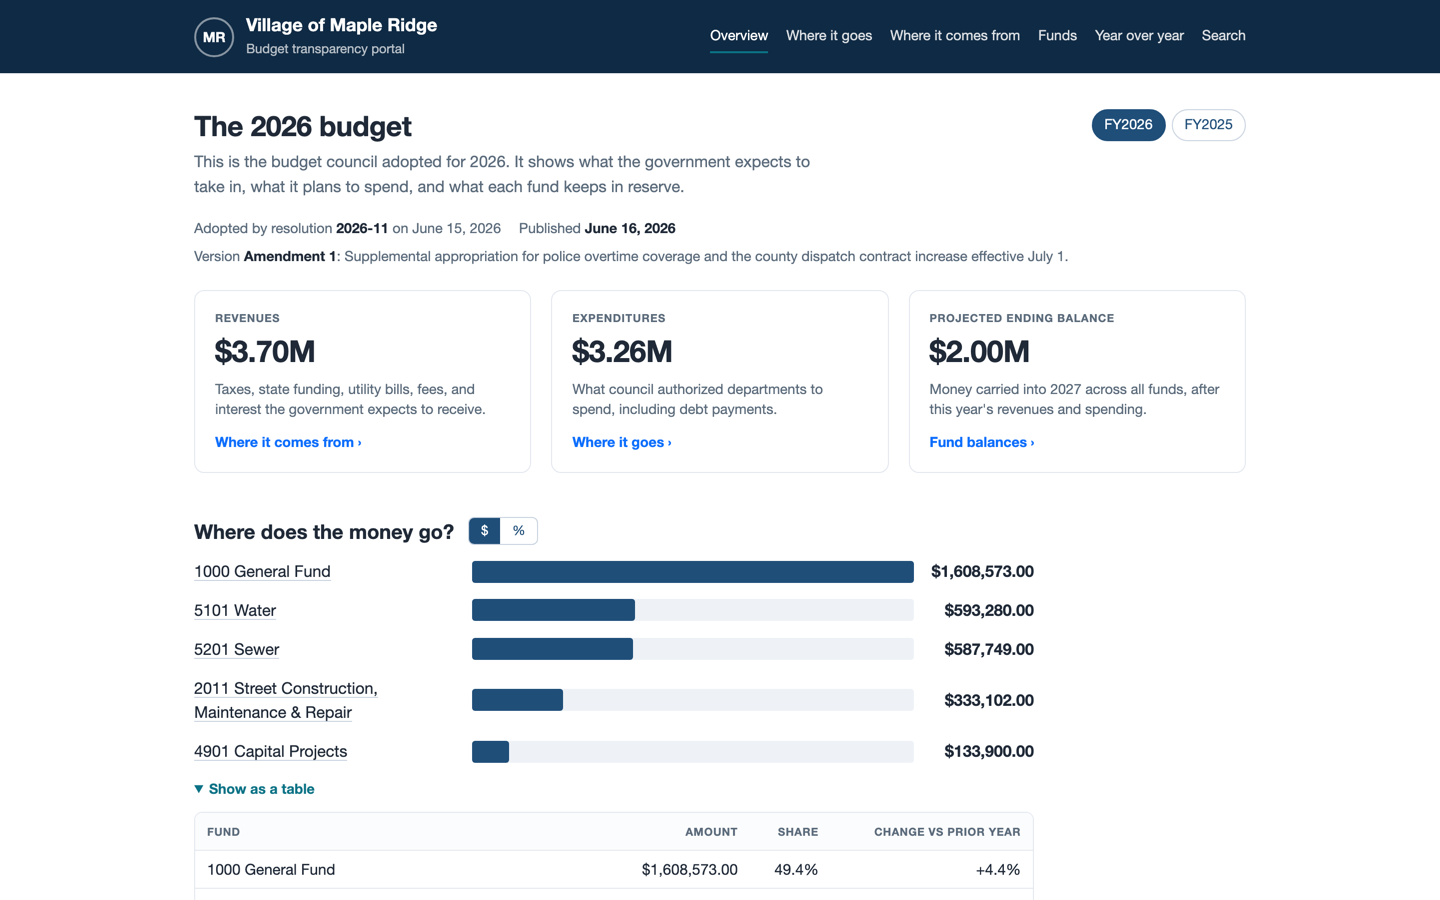
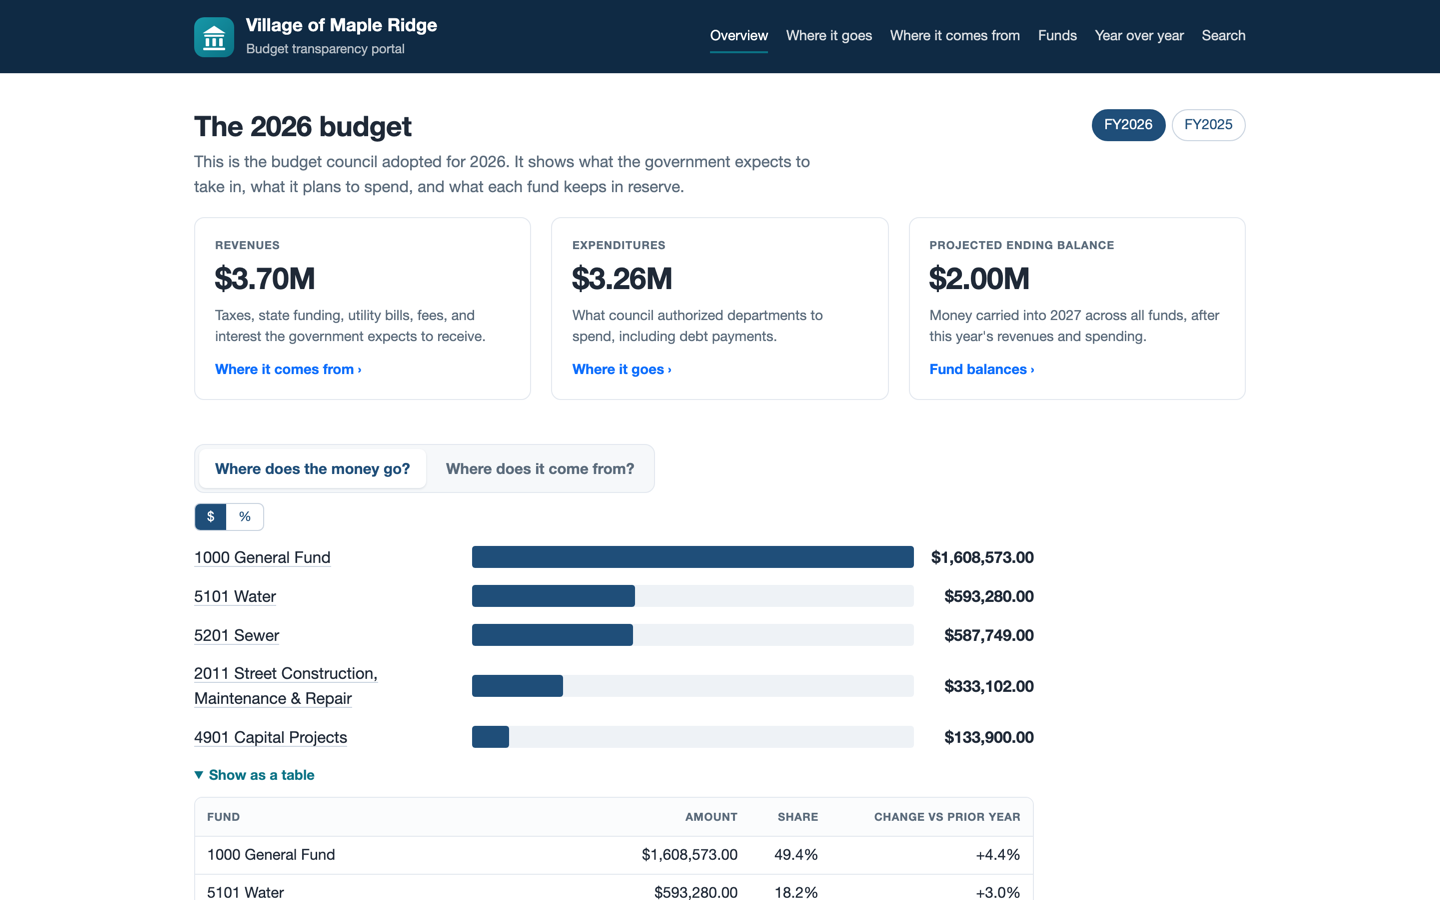
docs: ADR-0029, walkthrough 15, roadmap phase 12, changelog, interview prep, conventions; portal screenshots

diff --git a/docs/DECISIONS.md b/docs/DECISIONS.md
@@ -313,6 +313,42 @@ The same phase adds `[NotAudited]` for properties whose change is already a name
 because the department round (ADR-0027) had started writing ids and timestamps into the
 activity feed.
 
+## ADR-0029 — The portal's read-only context also maps the government logo; the overview's panels slide with CSS alone
+**Date:** 2026-09-20 · **Status:** Accepted
+
+**Context.** The portal header showed the government's initials in a circle. Spencer wants the
+CivicBudget mark by default and a logo the government's administrator uploads. ADR-0006 says
+the portal context maps only snapshot tables so nothing live can leak; a logo is live data.
+Separately, the overview's two breakdowns should be one sliding section, and the portal has no
+JavaScript (ADR-0021's cacheability and the accessibility statement both depend on that).
+
+**Decision.**
+- **`GovernmentLogos` is the one non-snapshot table the portal context maps.** It holds a
+  government id, a content type, bytes, and a timestamp: a public image and nothing else, so
+  mapping it read-only cannot expose a draft, a user, or a setting. The portal looks it up
+  through an active snapshot's `GovernmentId`, so a government with nothing published has no
+  public face, and a renamed slug cannot orphan it. Uploads go through
+  `IGovernmentLogoService` (Administrator only, browser-resized to 512 px, type and size
+  checked) and evict the government's portal pages, whose header carries the logo.
+- **The header falls back to the mark**, not to initials: a product default that looks
+  designed, and no more guessing which words of "Village of Maple Ridge" to abbreviate.
+- **Panels slide with `:checked`.** `PortalPanels` renders two radio inputs styled as tabs and a
+  track two panels wide; the checked radio moves the track and hides the other panel
+  (`visibility`, so its links leave the tab order; `max-height: 0` after the slide, so the page
+  is only as tall as the panel on screen). Both panels are in the HTML, so search, reader mode,
+  and screen readers see everything, and the $/% toggle, which reloads the page, keeps the panel
+  through `?view=revenue`.
+
+**Alternatives.** Copying the logo into each snapshot (a logo change would need a republish);
+serving it through the admin context (breaks the one-door rule for no gain); a JavaScript
+carousel (the portal's no-script promise); `<details>` or `:target` for the tabs (no slide, and
+`:target` scrolls the page).
+
+**Consequences.** One table, one migration, one line in the portal-context test. The trust
+line (resolution, published, version) closes the overview instead of opening it; the glossary
+and accessibility statement are a page (`/transparency/{slug}/{year}/glossary`) instead of a
+footer under every page.
+
 ## Packages
 
 Every NuGet package and why. Add a row when adding a package.

diff --git a/CLAUDE.md b/CLAUDE.md
@@ -69,7 +69,7 @@ Actions · AWS CDK (C#) deploy-ready (no account — see ADR-0008).
 - Department round (9d): `DepartmentRequest` is a child of `BudgetVersion` (`SetDepartmentNarrative`, `SubmitDepartment`, `ReturnDepartment`); never new one up elsewhere. "May they edit" always passes the submitted flag (`BudgetLinePermissions.CanEdit(..., departmentSubmitted)`); pages read `BudgetWorkspaceDto.DepartmentRequests` and its `CanSubmit`/`CanReturn`/`CanEditNarrative` rather than checking roles. A dialog's `OnConfirm` is a `Func`, so call `StateHasChanged()` after reloading inside it.
 - ERP chart: `ErpChart` is the contract, `ChartDiff` is pure, `ChartSyncService` applies through entities. Setup services must call `ChartOwnership.RefuseIfErpManagedAsync` before writing. Add an ERP adapter by implementing `IErpChartSource`, never by touching the sync service.
 - Import/reports: `ImportAnalyzer` and `ReportBuilder` are pure; keep rules there and tests in Application.Tests. Exports go through `ExportTable` + `ISpreadsheetExporter`; add endpoints to `AdminExportEndpoints` behind a policy.
-- Portal pages call `ISnapshotQueryService` only; shared pieces live in `Components/Portal/Common` (`Breakdown`, `PortalKpi`, `PortalCrumbs`, `PortalNotFound`, `MoneyShort`). Styles are the `.pt-*` section of `app.css`.
+- Portal pages call `ISnapshotQueryService` only; shared pieces live in `Components/Portal/Common` (`Breakdown`, `PortalPanels`, `PortalKpi`, `PortalCrumbs`, `PortalNotFound`, `MoneyShort`). Styles are the `.pt-*` section of `app.css`. The portal has no JavaScript: toggles are links or `:checked` CSS. The portal context maps the snapshot tables plus `GovernmentLogos` (a public image) and nothing else.
 - UI: use `PageHeader` (sets breadcrumbs), `StatusPill`, `KpiCard`, `ConfirmDialog`, `RowMenu`, `EmptyState`, `SkeletonRows`, `ToastService`; grids use `table.cb-grid` inside `.cb-grid-wrap` (QuickGrid with `Theme="bootstrap"`). Tokens live in `wwwroot/app.css`; see `docs/design/DESIGN-BRIEF.md`. Never `window.confirm`.
 - Mark financial entities `[Audited]`; the interceptor does the rest. Use `AuditEntry.Event(...)` for named actions, and `[NotAudited]` on a property whose change that event already describes.
 - People and brand: render a person with `<Avatar UserId Name [Version] [Size]>` (never hand-rolled initials; `Display.Initials` is the one helper) and the mark with `<Logo Size>`; the sidebar brand is the government's name, not the product's.

diff --git a/docs/walkthroughs/15-portal-polish.md b/docs/walkthroughs/15-portal-polish.md
@@ -1,0 +1,48 @@
+# Walkthrough 15 — Portal polish
+
+Phase 12. Spencer's review of the transparency portal: a logo instead of
+initials (the government's own if it uploads one), less text at the top of
+the overview, the two breakdowns as one sliding section, and the glossary
+on its own page.
+
+## 1. The brand
+
+`PortalLayout` shows the CivicBudget mark (`<Logo>`) by default. When the
+government's administrator uploads a logo under **Government settings**,
+the header shows that instead: `PortalBudgetDto.LogoVersion` carries the
+upload time and the `<img>` points at `/transparency/{slug}/logo?v=ticks`.
+
+The upload follows the profile-picture pattern (walkthrough 14): the
+browser resizes to 512 px, `IGovernmentLogoService` checks type and size,
+the bytes go to `GovernmentLogos`, and the government's portal pages are
+evicted from the output cache because the header changed. The portal reads
+the table through `PublicPortalDbContext`, the one non-snapshot table it
+maps, by joining through an active snapshot's government id (ADR-0029).
+
+## 2. The overview
+
+- The resolution, published date, and version line moved from under the
+  headline to the foot of the page, above the footer, as a citation.
+- "Where does the money go?" and "Where does it come from?" are one section:
+  `PortalPanels` puts both `Breakdown`s on a track two panels wide, with two
+  radio inputs styled as tabs. `:checked` slides the track, hides the other
+  panel (`visibility`, then `max-height: 0`), and highlights the tab. No
+  script; reduced motion turns the slide off. The `$ | %` toggle reloads the
+  page, so the revenue panel's toggle links carry `?view=revenue`.
+- The "every line of the adopted budget" tail is gone.
+
+## 3. The glossary
+
+`/transparency/{slug}/{year}/glossary` (`PortalGlossary.razor`) explains the
+words the portal uses, a few more than before (beginning balance, transfer,
+account number, resolution), and carries the accessibility statement under
+`#accessibility`. The footer is one line: which budget, downloads, Glossary,
+Accessibility.
+
+## 4. Things to read
+
+1. `Components/Layout/PortalLayout.razor` and `Components/Portal/PortalOverview.razor`
+2. `Components/Portal/Common/PortalPanels.razor` and the `.pt-panels` CSS
+3. `Infrastructure/Portal/GovernmentLogoService.cs`, `SnapshotQueryService.GetLogoAsync`
+4. `tests/CivicBudget.IntegrationTests/GovernmentLogoTests.cs`, `PortalPanelsTests.cs`
+5. ADR-0029

diff --git a/docs/INTERVIEW-PREP.md b/docs/INTERVIEW-PREP.md
@@ -966,3 +966,24 @@ twice, one of them unreadable. The attribute opts a property out when a
 named event already records the change; Status, Narrative, and the return
 note are still audited field by field.
 **Look at:** `Domain/Common/AuditedAttribute.cs`, `AuditInterceptor.IsOptedOut`.
+
+## Phase 12 — Portal polish
+
+### Q: The portal context was "snapshot tables only". Why does it map the logo table now, and is that a hole?
+**A:** A government's logo is live data the portal has to show, and copying it into every
+snapshot would mean republishing a budget to change a logo. So I made one deliberate exception
+and wrote it down: `GovernmentLogos` holds a government id, a content type, bytes, and a
+timestamp, nothing else. Mapping it read-only cannot expose a draft line, a user, or a setting.
+The lookup goes through an active snapshot's government id, so a government with nothing
+published has no public face. The integration test that lists the portal context's tables pins
+it to exactly five.
+**Look at:** `PublicPortalDbContext`, `GovernmentLogoService`, `SnapshotQueryService.GetLogoAsync`, ADR-0029.
+
+### Q: How do the sliding panels work without JavaScript?
+**A:** Two radio inputs styled as tabs and a track two panels wide. `:checked` on the second
+radio translates the track by one panel and hides the other with `visibility` (so its links
+leave the tab order) and `max-height: 0` after the slide (so the page is only as tall as the
+panel on screen). Both panels are in the HTML, so find-in-page, reader mode, and screen
+readers see everything. The $/% toggle reloads the page, so it carries `?view=revenue` to land
+on the same panel. Reduced motion turns the slide off.
+**Look at:** `Components/Portal/Common/PortalPanels.razor`, the `.pt-panels` block in `app.css`.

diff --git a/CHANGELOG.md b/CHANGELOG.md
@@ -5,6 +5,15 @@ All notable changes to CivicBudget. Format loosely follows
 
 ## [Unreleased]
 
+## Phase 12 — 2026-09-20 (v1.1)
+### Added
+- Portal header shows the CivicBudget mark, or the government's own logo uploaded under Government settings (`GovernmentLogos`, migration `AddGovernmentLogos`, served at `/transparency/{slug}/logo`).
+- Glossary page (`/transparency/{slug}/{year}/glossary`) with the accessibility statement.
+- Overview: "Where does the money go?" and "Where does it come from?" are two panels on a sliding track switched by tabs, still without JavaScript.
+### Changed
+- Overview: the resolution, published date, and version line moved from the top to the foot of the page; "every line of the adopted budget" removed.
+- Portal footer is one line: budget, downloads, glossary, accessibility.
+
 ## Phase 11 — 2026-09-20 (v1.1)
 ### Changed
 - Front door and sign-in page read like a product, not a project: one centered headline on the navy half, "Sign in to view and enter data" and a link to the public portal on the other. The portfolio, demo, stack, and "fictional data" copy is gone from the app (the README still says it); the redundant "Sign in" link left the public header.

diff --git a/ROADMAP.md b/ROADMAP.md
@@ -182,3 +182,10 @@ Order: 9a → 9b → 9c → 9d. Each is a PR with the usual report; approve befo
 - [x] Home and sign-in: centered headline, no product or project copy, "Sign in to view and enter data", portal link; no "Sign in" link in the public header
 - [x] No portfolio/demo/fictional wording anywhere in the app's UI (README and docs keep it)
 - [x] Spencer approves Phase 11 (2026-09-20)
+
+## Phase 12 — Portal polish  `phase-12-portal-polish`
+- [x] Portal brand: CivicBudget mark by default, the government's uploaded logo when set (settings upload, portal endpoint, read-only mapping); ADR-0029
+- [x] Overview: citation line at the foot, tail text removed, spending and revenue as sliding panels with radio tabs (no JavaScript)
+- [x] Glossary and accessibility statement on their own page; one-line footer
+- [x] Tests (logo service and portal read, panels component, portal table list)
+- [ ] Spencer approves Phase 12

diff --git a/docs/ARCHITECTURE.md b/docs/ARCHITECTURE.md
@@ -151,7 +151,7 @@ await using var db = await _dbFactory.CreateDbContextAsync(ct);
 ### 4.2 Two DbContexts, one database (ADR-0006)
 - `CivicBudgetDbContext` — the full admin model, Identity tables, audit,
   snapshots. Owns the migrations.
-- `PublicPortalDbContext` — maps **only** the four snapshot tables, filters to
+- `PublicPortalDbContext` — maps **only** the four snapshot tables (plus `GovernmentLogos`, a public image, ADR-0029), filters to
   Active snapshots globally, `NoTracking` by default, and `SaveChanges` throws.
   Shares `PublishedSnapshotModel.Configure` with the admin context so the two
   mappings cannot drift; owns no migrations. Used exclusively by the portal.
